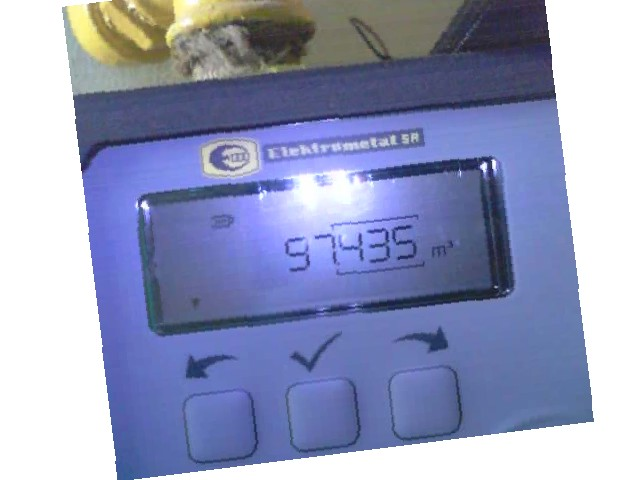
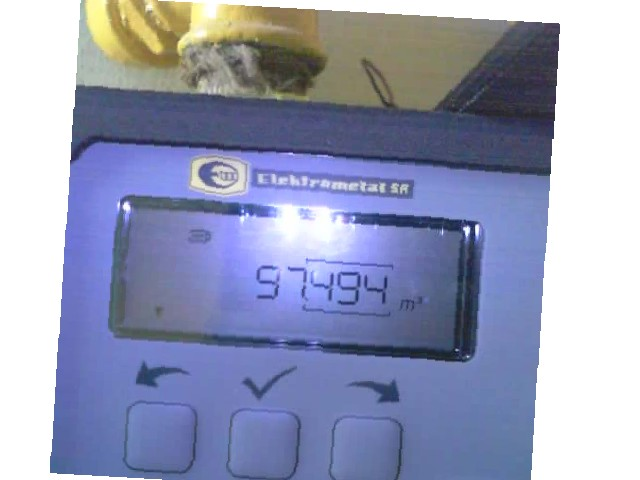
Automatyczna aktualizacja strony i danych

diff --git a/index.html b/index.html
@@ -35,11 +35,11 @@
 <body>
     <div class="container">
         <h1>Bieżący Stan Licznika</h1>
-        <div class="status">Ostatnia aktualizacja danych:<br><span class="timestamp">2026-10-27 09:48:07</span></div>
+        <div class="status">Ostatnia aktualizacja danych:<br><span class="timestamp">2026-10-27 09:53:34</span></div>
         <div class="odczyt">93498 m³</div>
         <div class="uwaga">Ostatni odczyt się nie powiódł, wyświetlana jest poprzednia poprawna wartość.</div>
         <h3>Aktualne zdjęcie z gazomierza:</h3>
-        <img src="img_tmp/alg.jpg?t=1793090887" alt="Zdjęcie licznika">
+        <img src="img_tmp/alg.jpg?t=1793091214" alt="Zdjęcie licznika">
     </div>
 </body>
 </html>
